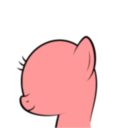
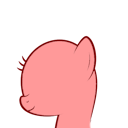
bug fixes and image brightness tweaks

Changed region(s): [[0.125, 0.25, 0.7812, 1.0], [0.6875, 0.9688, 0.7188, 1.0]]

diff --git a/public/client/controller/GameController.js b/public/client/controller/GameController.js
@@ -32,10 +32,12 @@ export class GameController {
         this.gameClient = gameClient
         this.cooldownTime = cooldownTime
 
+        this.cleanup = new AbortController()
+
         window.addEventListener("beforeunload", () => {
             this.gameClient.leaveGame()
             this.gameClient = null
-        }, { once: true })
+        }, { once: true, signal: this.cleanup.signal })
     }
 
     async afterLoad() {
@@ -49,9 +51,8 @@ export class GameController {
         this.bound.drawCard = this.gameClient.drawCard.bind(this.gameClient)
         this.drawPile.addEventListener("click", this.bound.drawCard)
 
-        this.eventController = new AbortController()
         for (const event in this.bound) {
-            window.addEventListener(event, this.bound[event], { signal: this.eventController.signal })
+            window.addEventListener(event, this.bound[event], { signal: this.cleanup.signal })
         }
 
         this.gameClient.send("ready", null)
@@ -167,7 +168,7 @@ export class GameController {
                 div.classList.toggle("disabled", !isEnabled)
             }
 
-            window.addEventListener("enablecard", enableCard)
+            window.addEventListener("enablecard", enableCard, { signal: this.cleanup.signal })
 
             div.addEventListener("click", function clickCard() {
                 if (div.classList.contains("enabled")) {
@@ -197,7 +198,7 @@ export class GameController {
             this.setPlayStatus("Choose a player to target")
 
             players.forEach(uuid => {
-                if (uuid === this.uuid) return
+                if (uuid === this.uuid || !this.gameClient.players.get(uuid).isAlive) return
                 const element = document.querySelector(`.player${uuid}`)
                 element.style.cursor = "pointer"
 
@@ -209,7 +210,7 @@ export class GameController {
 
                     controller.abort()
                     resolve(uuid)
-                }, { signal: controller.signal })
+                }, { once: true, signal: controller.signal })
             })
         })
     }
@@ -256,7 +257,7 @@ export class GameController {
     }
 
     leaveGame() {
-        this.eventController.abort()
+        this.cleanup.abort()
         this.gameClient?.leaveGame()
         this.gameClient = null
         loadPage("rooms", this.uuid)
@@ -385,8 +386,6 @@ export class GameController {
     giveCard(event) {
         const { card, to } = event.detail
 
-        console.log(card, to)
-
         const element = document.querySelector(`.cardGroup.${card.cardType}`).firstElementChild
         const end = document.querySelector(`#otherPlayers .player${to} .hand`)
 
@@ -403,7 +402,6 @@ export class GameController {
 
     receiveCard(event) {
         const { card, from } = event.detail
-        this.gameClient.hand.add(card)
 
         const element = this.cardToHTML(card, true)
         element.style.transform = "scale(0.5)"

diff --git a/public/client/service/GameClient.js b/public/client/service/GameClient.js
@@ -46,7 +46,7 @@ export class GameClient {
                 break
 
             case "provideinput":
-                if (!this.isMyTurn) this.dispatchEvent(type, payload)
+                if (!this.isMyTurn) this.dispatchEvent("provideinput", payload)
                 break
 
             case "transfer":
@@ -68,14 +68,15 @@ export class GameClient {
                 this.players.get(payload.uuid).handSize++
                 this.drawPileLength = payload.length
                 if (payload.uuid === this.uuid) this.onDrawCard(payload.card)
-                this.dispatchEvent(type, payload)
+                this.dispatchEvent("drawcard", payload)
                 this.configureCardPlayability(false)
                 break
 
             case "eliminate":
                 this.lastTypePlayed = ""
+                this.players.get(payload.uuid).isAlive = false
                 if (payload.uuid === this.uuid) this.dispatchEvent("eliminated")
-                else this.dispatchEvent(type, payload)
+                else this.dispatchEvent("eliminate", payload)
                 break
 
             case "deck":
@@ -107,11 +108,21 @@ export class GameClient {
             && this.lastTypeDrawn !== "exploding"
             && this.lastTypePlayed !== "exploding"
 
-        const catPlayability = (catType) => (this.hand.has(catType, 2) // You can play if you have 2
-            || (coolingDown
-                && this.lastCardPlayer === this.uuid // Or if you just played one
-                && this.hand.has(catType) // and you have another one
-                && this.lastTypePlayed === catType)) // which is the same
+        const catPlayability = (catType) => {
+            console.log(
+                this.hand.has(catType, 2) // You can play if you have 2
+                , coolingDown
+                , this.lastCardPlayer === this.uuid // Or if you just played one
+                , this.hand.has(catType) // and you have another one
+                , this.lastTypePlayed === catType // which is the same
+            )
+            return (this.hand.has(catType, 2) // You can play if you have 2
+                || (coolingDown
+                    && this.lastCardPlayer === this.uuid // Or if you just played one
+                    && this.hand.has(catType) // and you have another one
+                    && this.lastTypePlayed === catType)) // which is the same
+        }
+
 
         const nopePlayability = coolingDown // Only play nope during cooldown
             && this.lastTypePlayed !== "defuse" // Cannot "nope" defuse
@@ -135,6 +146,7 @@ export class GameClient {
             shuffle: defaultPlayability,
             skip: defaultPlayability,
         }
+        console.log(playableCards)
         this.dispatchEvent("enablecard", playableCards)
         return playableCards
     }

diff --git a/public/common/Bot.js b/public/common/Bot.js
@@ -10,6 +10,7 @@ export class Bot extends GameClient {
         this.username = username
         this.upcomingCards = []
         this.isAlive = true
+        this.hasWon = false
 
         // If a bot has the ability to play a card which will reduce the probability of drawing an exploding card by this value, then they will play it
         this.desiredProbabilityReduction = Math.random() * 0.4
@@ -172,6 +173,7 @@ export class Bot extends GameClient {
                 break
 
             case "win":
+                this.hasWon = true
                 this.socket.removeEventListener("send")
                 break
         }
@@ -259,6 +261,8 @@ export class Bot extends GameClient {
     }
 
     decidePlay() {
+        if (!this.isAlive || this.hasWon) return
+
         this.cardValues.exploding.number = Array.from(this.players.values()).filter(player => player.isAlive).length - 1
         const probability = (this.upcomingCards.length > 0)
             ? (this.upcomingCards[0].cardType === "exploding" ? 1 : 0)
